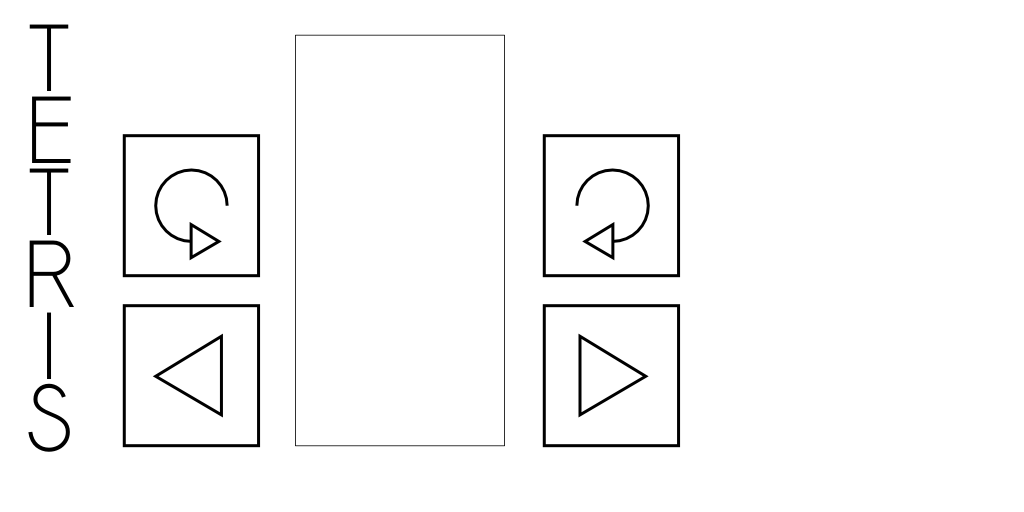
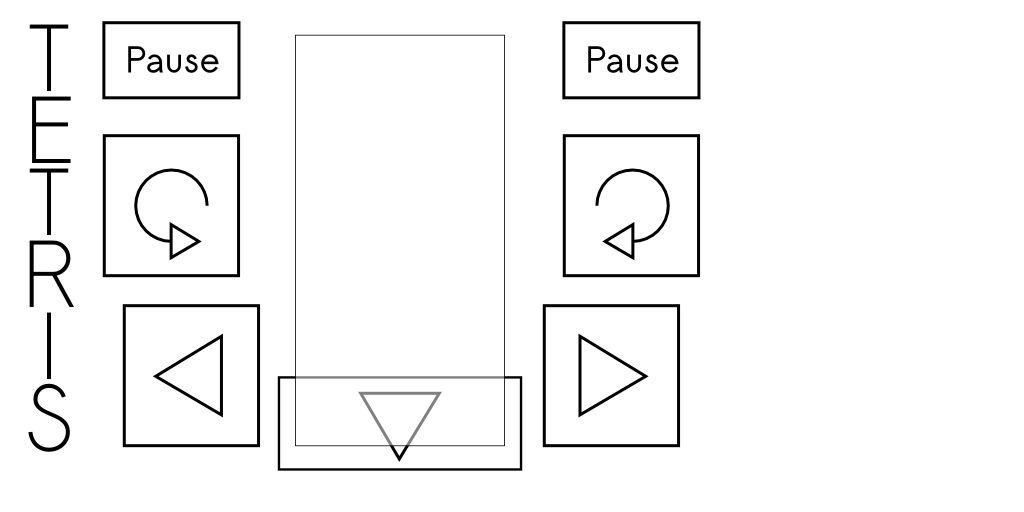
'works', lines clear and game over occurs if new piece overlaps a block on the field. Unused pause buttons on the graphic.

diff --git a/gdx-tetris/src/com/highestqualitygames/gdx_tetris/GameScreen.java b/gdx-tetris/src/com/highestqualitygames/gdx_tetris/GameScreen.java
@@ -12,26 +12,31 @@ import com.badlogic.gdx.math.Vector3;
 public class GameScreen implements Screen {
 	SpriteBatch batch = new SpriteBatch();
 	Vector3 touchPoint = new Vector3();
+
+	Game game;
+	OrthographicCamera cam;
+	Sprite mm_sprite, block_sprite;
+	
 	final int BLOCK_SIZE = 20;
-	final int GRID_HEIGHT = 22;
-	final int GRID_WIDTH = 10;
+	
 	final float DROP_TIMEOUT = 1;
 	
 	// row-major grid, 0 at the bottom, 21/20 hidden at the top
-	
-	// Currently blocks are 20px, rendered from (300,39) "up"
+	final int GRID_HEIGHT = 22;
+	final int GRID_WIDTH = 10;
+
 	boolean[][] grid = new boolean[GRID_HEIGHT][GRID_WIDTH];
 	
 	// A square array of length 2/3/4
 	boolean[][] piece;
-	// These are interpreted as grid position of the top left corner.
+	
+	// These are interpreted as grid position of the top left corner
+	// of the piece (which give the odd-looking "- i" bits) -
+	// should be changed to bottom left corner at some point
 	int piece_x;
 	int piece_y;
-	float next_drop;
 	
-	Game game;
-	OrthographicCamera cam;
-	Sprite mm_sprite, block_sprite;
+	float next_drop;
 	
 	public GameScreen(Game game) {
 		this.game = game;
@@ -55,25 +60,22 @@ public class GameScreen implements Screen {
 		next_drop -= delta;
 		
 		if (next_drop <= 0) {
-			if(!collidesWithGridOrWall(piece, piece_x, piece_y - 1)){
-				piece_y = piece_y - 1;
-				
-				next_drop = DROP_TIMEOUT - next_drop;
-			}
-			else {
-				attachPiece();
-				// Attach, new piece...
-				spawnPiece();
-				
-				if(collidesWithGridOrWall(piece, piece_x, piece_y)){
-					gameOver();
-				}
-			}
+			dropPiece(false);
 		}
 		
+		handleGameKeys();
+		
+		drawGame();
+	}
+	
+	public void handleGameKeys() {
 		if (Gdx.input.justTouched()) {
 			cam.unproject(touchPoint.set(Gdx.input.getX(), Gdx.input.getY(), 0));
-
+			
+			if (Assets.gameScreenDrop.contains(touchPoint.x, touchPoint.y)) {
+				dropPiece(true);
+			}
+			
 			if (Assets.gameScreenLeft.contains(touchPoint.x, touchPoint.y)) {
 				if(!collidesWithGridOrWall(piece, piece_x - 1, piece_y)){
 					piece_x -= 1;
@@ -87,63 +89,27 @@ public class GameScreen implements Screen {
 			}
 			
 			if (Assets.gameScreenRotLeft.contains(touchPoint.x, touchPoint.y)) {
-				boolean[][] new_piece = this.rotate(true, piece);
+				boolean[][] new_piece = this.rotate(false, piece);
 				if(!collidesWithGridOrWall(new_piece, piece_x, piece_y)){
 					piece = new_piece;
 				}
 			}
 			
 			if (Assets.gameScreenRotRight.contains(touchPoint.x, touchPoint.y)) {
-				boolean[][] new_piece = this.rotate(false, piece);
+				boolean[][] new_piece = this.rotate(true, piece);
 				if(!collidesWithGridOrWall(new_piece, piece_x, piece_y)){
 					piece = new_piece;
 				}
 			}
 		}
-		
-		Gdx.gl.glClearColor(1, 1, 1, 1);
-		Gdx.gl.glClear(GL10.GL_COLOR_BUFFER_BIT);
-		
-		batch.setProjectionMatrix(cam.combined);
-		
-		batch.begin();
-		mm_sprite.draw(batch);
-		batch.end();
-		
-		batch.begin();
-		
-		float grid_x = Assets.gameScreenGrid.x;
-		float grid_y = Assets.gameScreenGrid.y;
-		
-		for(int i = 0; i < 20; i++){
-			for(int j = 0; j < 10; j++){
-				if(grid[i][j])
-					batch.draw(	
-							block_sprite, 
-							grid_x + j * BLOCK_SIZE,
-							grid_y + i * BLOCK_SIZE);
-			}
-		}
-		
-		int size = piece.length;
-		for(int i = 0; i < size; i++){
-			for(int j = 0; j < size; j++){
-				if(piece[i][j]){
-					batch.draw(
-							block_sprite, 
-							grid_x + BLOCK_SIZE * (piece_x + j),
-							grid_y + BLOCK_SIZE * (piece_y - i));
-				}
-			}
-		}
-		
-		batch.end();
 	}
 	
 	public void spawnPiece(){
 		this.piece = randomPiece();
 		this.piece_x = 3;
-		this.piece_y = 20;	
+		this.piece_y = 21;	
+		
+		next_drop = DROP_TIMEOUT;
 	}
 	
 	public void attachPiece(){
@@ -153,6 +119,50 @@ public class GameScreen implements Screen {
 				if(piece[i][j]){
 					grid[piece_y - i][piece_x + j] = true;
 				}
+			}
+		}
+	}
+	
+	public void dropPiece(boolean byUser){
+		if(!collidesWithGridOrWall(piece, piece_x, piece_y - 1)){
+			piece_y = piece_y - 1;
+			
+			next_drop = DROP_TIMEOUT - (byUser ? 0 : next_drop);
+		}
+		else {
+			// TODO: Pause game for this...
+			attachPiece();
+			
+			clearRows();
+			
+			spawnPiece();
+			
+			if(collidesWithGridOrWall(piece, piece_x, piece_y)){
+				gameOver();
+			}
+		}
+	}
+	
+	public void clearRows(){
+		for(int i = 0; i < GRID_HEIGHT;){
+			boolean full = true;
+			
+			for(int j = 0; j < GRID_WIDTH; j++) {
+				if(!grid[i][j]) 
+					full = false;
+			}
+			
+			if(full){
+				// Move rows down...
+
+				for(int k = i; k < GRID_HEIGHT - 1; k++){
+					grid[k] = grid[k + 1];
+				}
+				
+				grid[GRID_HEIGHT - 1] = new boolean[GRID_WIDTH];
+			}
+			else {
+				i++;
 			}
 		}
 	}
@@ -178,6 +188,47 @@ public class GameScreen implements Screen {
 		}
 		
 		return false;
+	}
+	
+	public void drawGame(){
+		Gdx.gl.glClearColor(1, 1, 1, 1);
+		Gdx.gl.glClear(GL10.GL_COLOR_BUFFER_BIT);
+		
+		batch.setProjectionMatrix(cam.combined);
+		
+		batch.begin();
+		mm_sprite.draw(batch);
+		batch.end();
+		
+		batch.begin();
+		
+		float grid_x = Assets.gameScreenGrid.x;
+		float grid_y = Assets.gameScreenGrid.y;
+		
+		// Render all but top two rows
+		for(int i = 0; i < GRID_HEIGHT - 2; i++){
+			for(int j = 0; j < GRID_WIDTH; j++){
+				if(grid[i][j])
+					batch.draw(	
+							block_sprite, 
+							grid_x + j * BLOCK_SIZE,
+							grid_y + i * BLOCK_SIZE);
+			}
+		}
+		
+		int size = piece.length;
+		for(int i = 0; i < size; i++){
+			for(int j = 0; j < size; j++){
+				if(piece[i][j] && piece_y - i < GRID_HEIGHT - 2){
+					batch.draw(
+							block_sprite, 
+							grid_x + BLOCK_SIZE * (piece_x + j),
+							grid_y + BLOCK_SIZE * (piece_y - i));
+				}
+			}
+		}
+		
+		batch.end();
 	}
 
 	@Override
@@ -234,13 +285,13 @@ public class GameScreen implements Screen {
 		return pieces[(int) Math.floor(Math.random() * 7)];
 	}
 	
-	private boolean[][] rotate(boolean left, boolean[][] piece){
+	private boolean[][] rotate(boolean right, boolean[][] piece){
 		// Assume that piece is a square (not ragged or rectangular)
 		boolean[][] new_piece = new boolean[piece.length][piece[0].length];
 		
 		for(int i = 0; i < piece.length; i++){
 			for(int j = 0; j < piece.length; j++){
-				new_piece[left ? j : piece.length - 1 - j][left ? piece.length - 1 - i : i] = piece[i][j]; 
+				new_piece[right ? j : piece.length - 1 - j][right ? piece.length - 1 - i : i] = piece[i][j]; 
 			}
 		}
 		

diff --git a/gdx-tetris/src/com/highestqualitygames/gdx_tetris/Assets.java b/gdx-tetris/src/com/highestqualitygames/gdx_tetris/Assets.java
@@ -13,9 +13,8 @@ public class Assets {
 	// These rectangles are relative to the BG (and so will need adjusted if the camera is not 1:1 with it)
 	public static Rectangle mainScreenStart;
 	
-	public static Rectangle gameScreenRotLeft, gameScreenRotRight, gameScreenLeft, gameScreenRight;
-	
-	public static Rectangle gameScreenGrid;
+	public static Rectangle gameScreenRotLeft, gameScreenRotRight, gameScreenLeft, gameScreenRight,
+		gameScreenGrid, gameScreenDrop, gameScreenPause1, gameScreenPause2;
 	
 	public static void load() {
 		Texture texture;
@@ -23,12 +22,17 @@ public class Assets {
 		texture = new Texture(Gdx.files.internal("data/game-screen.png"));
 		texture.setFilter(TextureFilter.Linear, TextureFilter.Linear);
 		
+		// From game-screen.svg - x is SVG x, y is SVG y - 32 (y points up)
+		// Width and height are 1:1 for now
 		gameScreen = new TextureRegion(texture, 0, 0, 800, 480);
-		gameScreenRotLeft = new Rectangle(123, 200, 138, 143); 
-		gameScreenRotRight = new Rectangle(542, 200, 138, 143); 
+		gameScreenRotLeft = new Rectangle(103, 200, 138, 143); 
+		gameScreenRotRight = new Rectangle(562, 200, 138, 143); 
 		gameScreenLeft = new Rectangle(123, 32, 138, 143); 
 		gameScreenRight = new Rectangle(542, 32, 138, 143); 
 		gameScreenGrid = new Rectangle(300, 39, 10 * 20, 22 * 20);
+		gameScreenDrop = new Rectangle(277, 10, 243, 94);
+		gameScreenPause1 = new Rectangle(102, 412, 138, 78);
+		gameScreenPause2 = new Rectangle(562, 412, 138, 78);
 		
 		texture = new Texture(Gdx.files.internal("data/main-screen.png"));
 		texture.setFilter(TextureFilter.Linear, TextureFilter.Linear);
